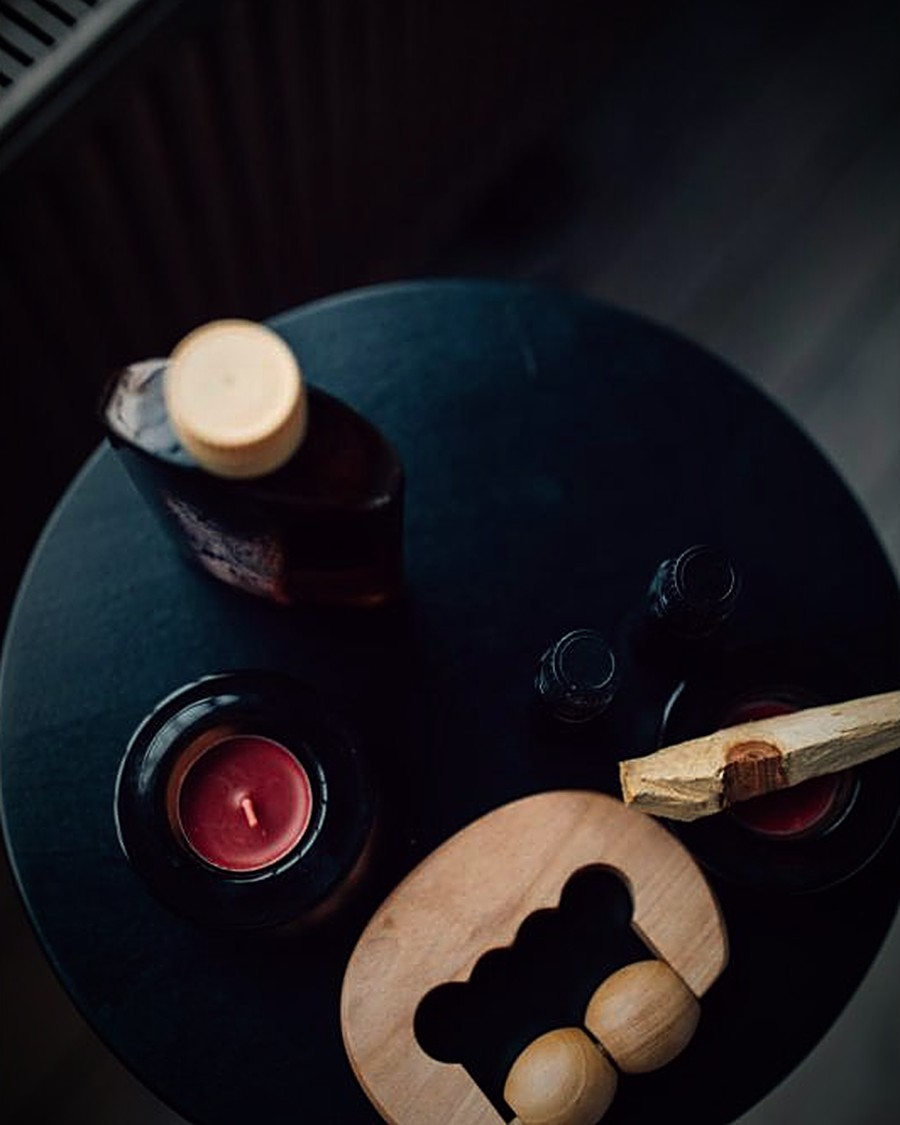
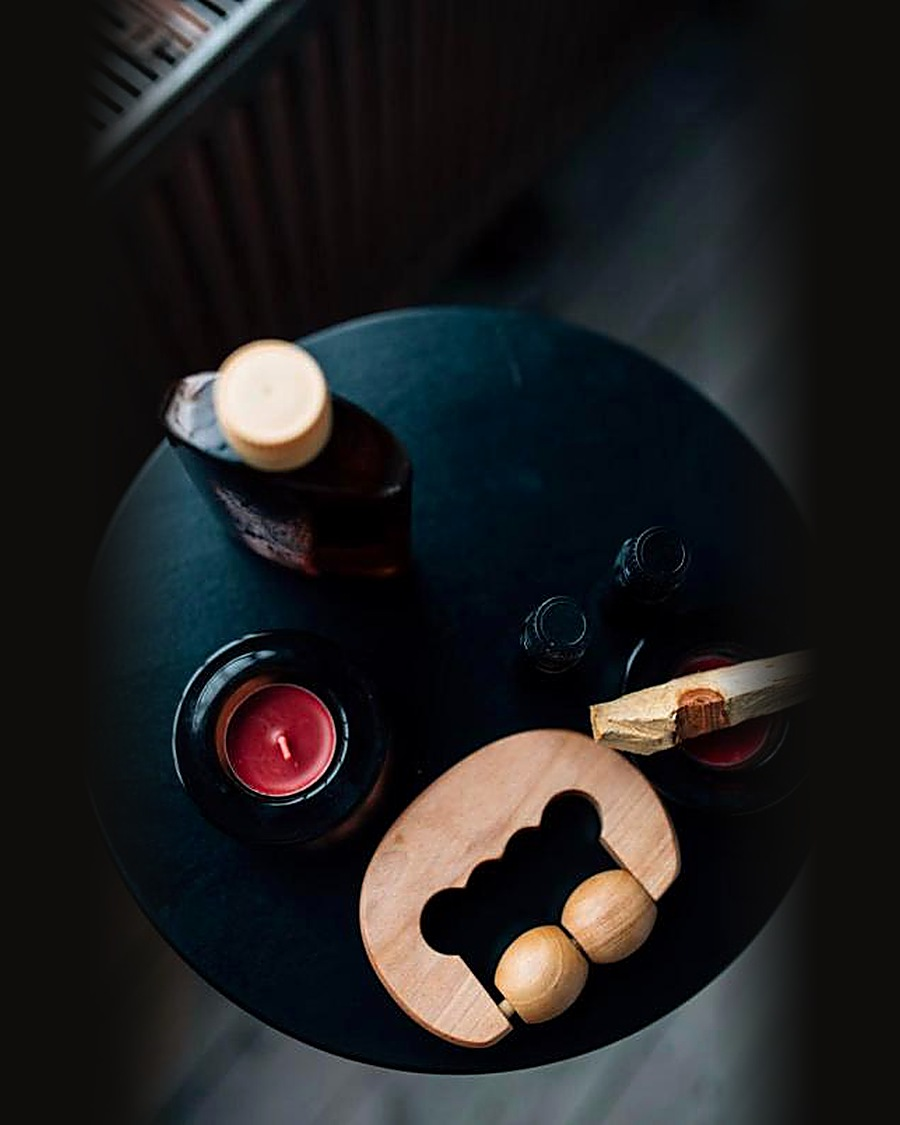
Add Carmine in place of Womanizer Premium 2; pull back and sharpen Elixir image
Claude-Session: https://claude.ai/code/session_01SD8AQiwQRDpEeTxmCouKAr

diff --git a/src/lib/commerce/products.ts b/src/lib/commerce/products.ts
@@ -106,6 +106,18 @@ const own: Base[] = [
     ],
     badge: "New", featured: 7, createdAt: "2026-11-20",
   },
+  {
+    // Added 2026-11-20 in place of the Womanizer Premium 2. Image is a studio-style render until the
+    // supplier sends clean (unwatermarked) photos. Placeholders to confirm: price, materials, specs.
+    id: "p16", handle: "carmine", title: "Carmine", subtitle: "Lipstick-slim bullet massager",
+    description: "Slender as a lipstick and lacquered in deep carmine, it slips into a clutch without a second glance. A single, softly rounded tip delivers focused, deep vibration, controlled by one discreet button at its base.",
+    category: "sculptural-essentials", materials: ["Body-safe ABS"], price: usd(49),
+    images: [
+      { src: "/media/products/carmine-1.jpg", alt: "Carmine, a slim glossy red bullet massager" },
+      { src: "/media/products/carmine-2.jpg", alt: "Carmine, close view of its lacquered finish" },
+    ],
+    badge: "New", featured: 9, createdAt: "2026-11-20",
+  },
 ];
 
 /**
@@ -334,6 +346,7 @@ const tags: Record<string, [Audience[], Feature[]]> = {
   seraphine: [["her"], []],
   rosalind: [["her"], [R]],
   "clitoral-air-stimulator": [["her"], [R]],
+  carmine: [["her"], [R]],
   lumen: [["her"], [W, R]],
   solenne: [["her", "him"], [W]],
   vesper: [["her"], [W, R]],
@@ -430,7 +443,7 @@ export const LAUNCH_RANGE = new Set([
   // Eden Flame own label
   "seraphine", "rosalind", "clitoral-air-stimulator",
   // For her
-  "womanizer-premium-2", "magic-wand-rechargeable", "lovense-lush-4", "we-vibe-touch-x",
+  "carmine", "magic-wand-rechargeable", // Carmine replaced the Womanizer Premium 2 (2026-11-20) "lovense-lush-4", "we-vibe-touch-x",
   // For him
   "we-vibe-vector-plus", "lovense-edge-2", "lovense-max-2", "arcwave-ion-2",
   // For two

diff --git a/src/lib/finder.ts b/src/lib/finder.ts
@@ -45,6 +45,7 @@ const SENSATION_OF: Record<string, Sensation[]> = {
   seraphine: ["deep"],
   rosalind: ["focused"],
   "clitoral-air-stimulator": ["focused"],
+  carmine: ["focused"],
   lumen: ["deep"],
   "le-wand-rechargeable": ["deep"],
   "lovense-osci-3": ["deep", "connected"],
